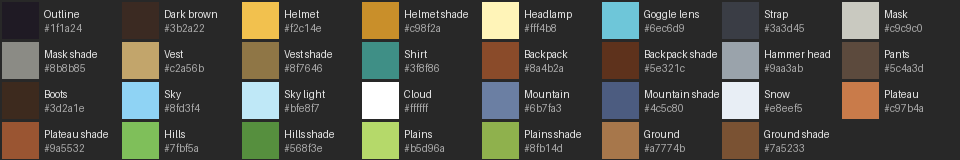
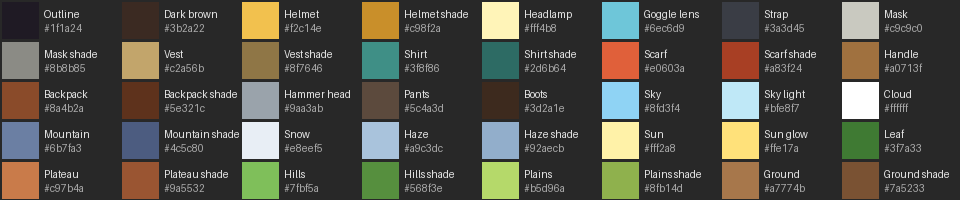
Add configurations for Game Development

diff --git a/LandGrand/Project/Start-up Screen.md b/LandGrand/Project/Start-up Screen.md
@@ -18,7 +18,7 @@ The start-up screen is the first screen the player sees. It shows the explorer w
 | Pixel tool | Aseprite, replacing Piskel from the pre-proposal's tool list. Clip Studio Paint remains available. |
 | Landforms shown | All four in the distance: Mountains, Plateaus, Hills, Plains |
 | Motion | The explorer walks in place in an endless loop while the background layers scroll. A blinking "Tap to Start" prompt waits for the player. |
-| Explorer | Genderless field geologist. A helmet, goggles and dust mask cover the face. |
+| Explorer | Genderless field geologist in the "Cave Spelunker" style. A steel miner helmet, orange visor and black respirator cover the face. |
 | Sprite size | 32×32 pixels per frame |
 
 ## Explorer design
@@ -27,41 +27,46 @@ The face is fully covered, so the character reads as neither boy nor girl. Every
 
 | Part | Description | Palette colours |
 | --- | --- | --- |
-| Head | Miner hard hat with a headlamp on the front | Helmet, Helmet shade, Headlamp |
-| Eyes | Round goggles with a dark strap | Goggle lens, Strap |
-| Face | Dust mask with a small filter on the side | Mask, Mask shade |
-| Body | Field vest with pockets over a teal shirt | Vest, Vest shade, Shirt |
-| Back | Backpack for collected rocks and minerals | Backpack, Backpack shade |
-| Hand | Rock hammer, carried head-down | Hammer head, Dark brown |
-| Legs and feet | Dark trousers and work boots | Pants, Boots |
+| Head | Dark steel miner helmet with a bright headlamp on the front | Mask shade, Strap, Headlamp |
+| Eyes | Orange visor band with a light glint | Scarf, Headlamp, Strap |
+| Face | Black close-fitting respirator, flush with the face, with a round grey side filter | Strap, Hammer head, Mask shade |
+| Body | Slim field vest over a teal shirt, with a belt | Vest, Vest shade, Shirt, Shirt shade |
+| Neck | Orange scarf whose tail waves behind while walking | Scarf, Scarf shade |
+| Back | Small backpack for collected rocks and minerals, with a pickaxe strapped across it | Backpack, Backpack shade, Handle, Hammer head |
+| Arms and legs | Thin limbs with gloves and dark trousers. Brown work boots with an ankle cuff, a lighter toe cap and a dark sole. Both arms swing opposite the legs. | Pants, Backpack, Backpack shade, Handle, Boots |
 
-The character faces right, toward the landforms. It stands about 26 pixels tall inside the 32×32 frame, with the feet on the bottom row.
+The character faces right, toward the landforms. It has a slim build with medium-length legs and stands about 27 pixels tall inside the 32×32 frame, with the feet near the bottom row. The user asked for a less bulky, cooler design after the first draft, then for shorter legs and a clearer forward walk after the second.
 
 ## Screen layout
 
 ![[landgrand-startup-layout-480x270.png]]
 
-The canvas is 480×270 pixels, which scales exactly ×4 to 1920×1080 in landscape. The reference image above is a layout guide, not final art. Open it as a reference layer in Aseprite.
+The game runs in landscape orientation only (user confirmed 2026-11-12, D-030). The canvas is 480×270 pixels, which scales exactly ×4 to 1920×1080 in landscape. The reference image above is a layout guide, not final art. Open it as a reference layer in Aseprite.
 
-| Layer | Content | Scroll speed |
+| Layer | Content | Scroll speed (pixels per frame at 10 fps) |
 | --- | --- | --- |
-| L0 | Sky and clouds | Static |
-| L1 | Mountains | 0.1× |
-| L2 | Plateau | 0.2× |
-| L3 | Hills | 0.4× |
-| L4 | Plains | 0.7× |
-| L5 | Ground, where the explorer walks | 1.0× |
-| Sprite | Explorer, feet at y = 238 | Walks in place |
-| Sprite | "LAND GRAND" title, inside the top box | Static. A shine animation can come later. |
-| UI | "Tap to Start" text | Blinks |
+| L0 | Sky gradient and sun with a soft glow | Static |
+| L1 | Clouds of mixed sizes | 0.15 |
+| L2 | Far mountain range in haze colours | 0.1 |
+| L3 | Near mountains: varied heights, lit left slopes, shaded right slopes, jagged snow caps | 0.25 |
+| L4 | Plateaus of varied width and height with uneven rock strata | 0.45 |
+| L5 | Rolling hills with scattered trees | 0.8 |
+| L6 | Plains with uneven grass tufts and small flowers | 1.4 |
+| L7 | Ground with an uneven grass edge, pebbles and coloured minerals | 2.0 (matches the explorer's stride) |
+| Sprite | Explorer, feet at y = 239 | Walks in place |
+| Sprite | "LAND GRAND" title | Bobs 1 px; a shine sweeps across every 3.2 s |
+| Sprite | Birds (flock of 5) | Fly across the sky |
+| Sprite | Sparkles | Twinkle on the coloured minerals in L7 |
+| Sprite | Dust | Puffs at the explorer's feet on each step |
+| UI | "Tap to Start" | Blinks |
 
-Layers L1 to L5 scroll, so each one must tile horizontally: its left edge must continue its right edge. Wider phones (up to 20:9) show more of each layer at the sides, which tiling also covers.
+The background canvas is 960×270, two screens wide, so features don't repeat on every screen. Peaks, plateaus, trees, tufts and minerals are placed at irregular spacing. Each layer tiles horizontally: its left edge continues its right edge. Wider phones (up to 20:9) show more of each layer at the sides, which tiling also covers.
 
 ## Palette
 
 ![[landgrand-palette.png]]
 
-The palette file is `Assets/Art/Palettes/landgrand.gpl` in the Unity project. In Aseprite, load it with **Palette > Load Palette**. It holds 31 colours: the explorer, sky, each landform, and the ground.
+The palette file is `Assets/Art/Palettes/landgrand.gpl` in the Unity project. In Aseprite, load it with **Palette > Load Palette**. It holds 40 colours: the explorer, sky, each landform, and the ground.
 
 ## Files and Aseprite setup
 
@@ -70,14 +75,46 @@ Save working files in `Assets/Art/StartScreen/` in the Unity project. Unity impo
 | File | Canvas | Content |
 | --- | --- | --- |
 | `explorer.aseprite` | 32×32 | Tag `walk`: 8 frames at 100 ms each (10 frames per second) |
-| `startup-background.aseprite` | 480×270 | One Aseprite layer per scroll layer, L0 to L5 |
+| `startup-background.aseprite` | 960×270 | One Aseprite layer per scroll layer, L0 to L7 |
 | `title.aseprite` | About 300×70 | The "LAND GRAND" lettering |
 
 The `walk` tag uses a standard 8-frame cycle: contact, down, passing, up, then the same four poses on the other leg.
 
 Import settings in Unity: Pixels Per Unit 32, Filter Mode Point, Compression None. Use a Pixel Perfect Camera with reference resolution 480×270 and 32 pixels per unit.
 
+## Asset status
+
+| Asset | Status |
+| --- | --- |
+| `explorer.aseprite` | Sixth draft plus a `collect` tag (8 frames: stop, bend, crouch, grab, rise, hold up, stash, stand). Cave Spelunker head (chosen by the user from three variants; see [[explorer_head_variants.png]]), 2026-11-12, replacing the earlier bulky and long-legged drafts. Generated by Claude from this spec: 8 frames at 100 ms, tag `walk`, LandGrand palette. Not yet reviewed in Aseprite or Unity. |
+| `startup-background.aseprite` | Second draft, 2026-11-12. Eight layers (L0–L7) at 960×270 with irregular, non-repeating features. The user asked for effects, less repetition and interactivity after the first draft. |
+| `title.aseprite` | Second draft, 2026-11-12. 291×44. Tag `idle` (1 frame) and tag `shine` (12 frames at 60 ms). |
+| `birds.aseprite`, `sparkle.aseprite`, `dust.aseprite` | First drafts, 2026-11-12. Tags `fly` (4 frames), `twinkle` (4 frames), `puff` (3 frames). |
+| `minerals.aseprite` | First draft, 2026-11-12. 4 frames, 12×12: quartz, gold, jasper, grey rock. |
+| `startup-background-points.json` | Peak, plateau, hill and mineral positions in the background, for interactive tap targets. |
+| `tap-to-start.aseprite` | First draft, 2026-11-12. "TAP TO START" in white pixel letters, 138×19. Stands in until a pixel font is chosen. |
+
+![[explorer_walk_preview.gif]]
+
+The full screen with parallax scrolling, the walking explorer and the blinking prompt:
+
+![[startup_preview.gif]]
+
+The flat sprite sheet is [[explorer_walk_sheet.png]] (256×32, eight 32×32 frames). The second draft adds the scarf, the back-mounted pickaxe and the far-arm swing.
+
+## Interactivity (D-031)
+
+Rocks and minerals appear on the path ahead of the explorer and scroll with the ground. When the explorer reaches one, it stops and the world stops scrolling (the clouds keep drifting). The explorer crouches, grabs the mineral from the ground (chime), holds it up (sparkle), puts it in the backpack, and walks on; the world eases back to speed over 0.3 seconds. This uses the `collect` tag in `explorer.aseprite` (frames 9–16), added at the user's request so the explorer collects minerals from the ground.
+
+![[explorer_collect_preview.gif]] Four kinds exist (quartz crystal, gold nugget, red jasper, grey rock) in `minerals.aseprite`, with three chime sounds in `Assets/Audio/`. A new mineral appears every 2.5 to 5 seconds. The minerals painted into the ground also twinkle now and then.
+
+Tapping anywhere opens the Main Menu scene. That scene does not exist yet, so a tap only logs a message for now.
+
+## Unity scene
+
+Run **LandGrand > Build Start Screen Scene** in the Unity menu. It sets pixel-art import settings (32 pixels per unit, Point, uncompressed) on every PNG in `Assets/Art/StartScreen/Sprites/`, sets landscape-only orientation, builds `Assets/Scenes/StartScreen.unity`, and adds it first in the build list. Running it again rebuilds the scene. Scripts are in `Assets/Scripts/StartScreen/` and the builder is `Assets/Editor/StartScreenBuilder.cs`. The game uses PNG frames exported from the `.aseprite` files, one PNG per frame or layer, because the scene built from the `.aseprite` imports showed no sprites on 2026-11-12. The `.aseprite` files stay as the editable sources. As of 2026-11-12 the scripts compiled against stand-in Unity types only; they have not yet been compiled or run in the Unity Editor.
+
 ## Still open
 
-- The "Tap to Start" text needs a pixel font. No font has been chosen yet.
-- Music and sound for this screen ([[Project/Scope and Requirements|LG-18]]) are not specified.
+- The "Tap to Start" prompt is a sprite for now. A pixel font for UI text has not been chosen.
+- Music: an original "Quest" loop composed by Claude for this project, `Assets/Audio/bgm_startscreen.ogg` (29.1 s, 132 BPM, A minor, chords Am–F–C–G, building to E major; brass-like lead, driving arpeggio, tom fills). Ambience: wind gusts with a soft whistle, a flowing river, birds and a distant eagle cry, `amb_wind_birds.ogg` (32 s). Volumes are 55% for music and 35% for ambience; both fade in over 1.5 s and fade out over 0.6 s on tap. On 2026-11-13 the user chose this version over the first (sad), cheerful and adventure drafts. No third-party licence applies.

diff --git a/LandGrand/Sessions/2026-11-13 - Start-up Screen Build Handoff.md b/LandGrand/Sessions/2026-11-13 - Start-up Screen Build Handoff.md
@@ -1,0 +1,57 @@
+---
+type: session-handoff
+status: active
+updated: 2026-11-13
+focus: Game development, start-up screen
+---
+
+# Start-up Screen Build Handoff
+
+## Stopping point
+
+On 2026-11-13 the user asked to save what was accomplished. The start-up screen runs in the Unity Editor: the user confirmed that the scene works, that the explorer and minerals appear, and that the "Quest" music is the chosen background. Game development is the active priority under [[Decisions/Decision Register|D-027]]. The user will upload the final Chapters I–III later.
+
+## Accomplishments saved
+
+### Project setup
+
+- Working copies confirmed: `D:\LandGrand\LandGrand` (Unity) and `D:\LandGrand\LandGrand-Sources` (this vault). The `D:\Projects` copies are outdated (D-027). Live path references in the vault were updated.
+- Unity upgraded from `6000.5.6f1` to `6000.6.8f1` and committed by the user. The Cainos `PolygonCollider2D` serialization warnings and a duplicate `using` in `Elevator.cs` were fixed. A merge-conflict marker left in `Assets/Editor/ReserializeCainos.cs` after the two-laptop merge was removed.
+- Landscape-only orientation recorded (D-030); the scene builder sets it in Player Settings.
+
+### Start-up screen design decisions
+
+| Decision | Record |
+| --- | --- |
+| All pixel art in Aseprite (replacing Piskel), four landforms in the distance, endless walk with "Tap to Start", genderless masked field geologist at 32×32 | D-028 |
+| "Cave Spelunker" explorer head (steel helmet, headlamp, orange visor, black respirator) | D-029 |
+| Landscape only | D-030 |
+| Rocks and minerals along the path; touching one plays a sound | D-031 |
+
+The user also asked, in turn, for a slimmer cooler body, shorter legs and a forward-reading walk, visible boots, a mask without the "duck" snout, effects with less repetition, a ground pickup animation, closer minerals, a fixed footstep dust, and cheerful then adventurous then more intense music. Each request is reflected in [[Project/Start-up Screen]].
+
+### Built assets (Unity project)
+
+- **Art**: `Assets/Art/StartScreen/*.aseprite` are the editable sources. The game uses 53 PNG frames exported from them in `Assets/Art/StartScreen/Sprites/` (Background L0–L7 at 960×270, Explorer 16 frames = walk + collect, Title 13 frames with a shine, Birds, Sparkle, Dust, Minerals, UI). The palette is `Assets/Art/Palettes/landgrand.gpl` (40 colours).
+- **Audio**: `Assets/Audio/bgm_startscreen.ogg` ("Quest", 29.1 s, 132 BPM, A minor), `amb_wind_birds.ogg` (wind gusts, river, birds, eagle; 32 s), three mineral chimes. All are original, generated for the project; no third-party licence applies.
+- **Scripts** in `Assets/Scripts/StartScreen/`: parallax scrolling with a shared walk-speed scale, a sprite flipbook, the explorer collect controller, mineral spawner and pickup, footstep dust that drifts with the ground, birds, ground sparkles, the blinking prompt, the title bob, music with fades, and the tap-to-continue controller.
+- **Scene builder**: `Assets/Editor/StartScreenBuilder.cs`, menu **LandGrand > Build Start Screen Scene**, creates `Assets/Scenes/StartScreen.unity` and adds it first in the build list. A rebuild replaces the scene, so it is needed only when the builder or the art changes, not for script-only changes.
+
+### Lessons
+
+- The `.aseprite` files written by Claude did not yield sprites through the Unity Aseprite importer on this project; the cause is unconfirmed. PNG frames with the standard texture importer work and are the current route.
+- Preview GIFs with a separate palette per frame displayed with wrong colours in Claude's viewer. Previews now use one shared palette. The game art itself was never affected.
+- Building with **Build And Run** needs a phone connected with USB debugging. **Build** alone makes an APK on the laptop.
+
+## Not done yet
+
+- The **Main Menu** scene does not exist. A tap on the start screen only logs a message until it does.
+- No Android device test has been recorded yet.
+- `/setup-matt-pocock-skills` has not been run for the Unity project.
+- Game-rule questions Q-02, Q-03, Q-06 and Q-07 remain open in [[Questions/Open Questions]].
+- A pixel font for UI text has not been chosen; "Tap to Start" is a sprite.
+- The final Chapters I–III are still to be uploaded.
+
+## Suggested next step
+
+Build the Main Menu from [[Project/Scope and Requirements|LG-16]] (Play, Settings, Tutorial, Exit), so the start screen has somewhere to go. Settings and Tutorial contents are unspecified in the requirements and need the user's decisions first.

diff --git a/LandGrand/Maintenance/Change Log.md b/LandGrand/Maintenance/Change Log.md
@@ -310,3 +310,17 @@ These checks cover saved files and references. The live Obsidian interface was n
 - The user confirmed `D:\LandGrand\LandGrand` (Unity) and `D:\LandGrand\LandGrand-Sources` (vault) as the working copies; the `D:\Projects` copies are outdated. Updated the live path references in both AGENTS.md files, Home, Technical Baseline, Vault Guide, and the Chapter III Drafting Guide. Historical entries, sessions, and sources keep their original paths.
 - Recorded the Unity editor as `6000.6.8f1` in Current Focus. The upgrade from `6000.5.6f1` and the Cainos asset reserialize were done in the Editor by the user; the upgrade commit is not yet verified in git.
 - Recorded D-028 for the start-up screen art. Added [[Project/Start-up Screen]] with the explorer design, layer layout and Aseprite setup, plus a layout guide and palette swatch in `Sources/Attachments`. Added `Assets/Art/Palettes/landgrand.gpl` and the empty `Assets/Art/StartScreen/` folder to the Unity project. Technical Baseline now notes Aseprite replacing Piskel.
+- Added a first-draft explorer sprite, `Assets/Art/StartScreen/explorer.aseprite` (8-frame `walk` tag), plus a sprite sheet and preview GIF in `Sources/Attachments`. Recorded its status in [[Project/Start-up Screen]].
+- Replaced the explorer sprite with a slimmer second draft (scarf, back-mounted pickaxe, both arms swinging) at the user's request. Added Shirt shade, Scarf, Scarf shade and Handle to the palette (35 colours).
+- Third explorer draft: shorter legs (hip 1–2 px lower), a reworked walk cycle with clearer forward knee bends and higher foot lift, and a smaller arm swing. The preview GIF now scrolls the ground so the walk reads as forward.
+- Fourth explorer draft: replaced the dark block feet with shaped brown boots (ankle cuff, toe cap, sole) so the shoes read clearly.
+- Fifth explorer draft: replaced the protruding mask, which read as a mouth or duck bill, with a flush respirator (round side filter, dark front vent).
+- Recorded D-029 and applied the Cave Spelunker head to `explorer.aseprite` (sixth draft). Saved the four-way comparison as `explorer_head_variants.png`.
+- Added first drafts of `startup-background.aseprite` (six tiling layers), `title.aseprite` and `tap-to-start.aseprite` in `Assets/Art/StartScreen/`, plus `startup_preview.gif` and `startup_still.png`. Recorded D-030 (landscape only) in the Start-up Screen and Technical Baseline notes.
+- Second start-up screen draft: 8-layer 960×270 background with irregular features (sun, clouds, far haze range, varied mountains, plateaus, trees, flowers, minerals); title shine animation; bird, sparkle and dust effect sprites; mineral and landform positions in `startup-background-points.json`. Palette now 40 colours (Haze, Haze shade, Sun, Sun glow, Leaf).
+- Recorded D-031 (minerals on the path with a sound on touch). Added `minerals.aseprite`, three chime WAVs, 13 start-screen scripts and the `LandGrand > Build Start Screen Scene` editor builder to the Unity project. Not yet compiled in Unity.
+- Added an 8-frame `collect` animation to the explorer and `ExplorerCollector.cs`: the explorer stops, crouches and picks each mineral off the ground, and the world pauses meanwhile. Updated the spawner, pickup, parallax and flipbook scripts and the scene builder. Not yet compiled in Unity.
+- Fixed a merge-conflict marker in `ReserializeCainos.cs`. Switched the start-screen builder from `.aseprite` sub-assets to 53 exported PNG frames in `Assets/Art/StartScreen/Sprites/` after the first build showed no sprites. Re-saved the preview GIFs with one shared palette so they display correctly.
+- Added start-screen background music and ambience (original, generated), `StartScreenMusic.cs`, a fade-out before the scene change in `StartScreenController.cs`, and a Music object in the scene builder. Mineral spawns are now closer (first one 3 units ahead, then every 1.5–3 s).
+- 2026-11-13: replaced the start-screen music with the user-chosen "Quest" track and the ambience with wind, river and birds; set the volumes to 55% and 35%. Fixed the dust placement and made it scroll with the ground.
+- 2026-11-13: saved [[Sessions/2026-11-13 - Start-up Screen Build Handoff]] at the user's request and linked it from Current Focus and Home.

diff --git a/LandGrand/Decisions/Decision Register.md b/LandGrand/Decisions/Decision Register.md
@@ -38,6 +38,9 @@ updated: 2026-11-12
 | D-026 | 2026-11-01 | Save the delivered Chapter III Word/reference snapshots, completed checks, and the user's unresolved feedback. Mark Chapter III Needs revision and prioritize the procedure diagram next session. End new manuscript/diagram work for today; preserve current versions and unresolved game rules. | [[Sessions/2026-11-01 - Chapter III Draft and Procedure Diagram Handoff#Latest user feedback and stopping point|User session-close request]] says many bottlenecks remain, especially the procedure diagram, and asks to fix them later and save progress. | [[Current Focus]], [[Manuscript/Drafting Dashboard|Dashboard]], [[Manuscript/Chapter III Revision Notes|revision notes]], [[Manuscript/Chapter III Drafting Guide|guide]], [[Sessions/2026-11-01 - Chapter III Draft and Procedure Diagram Handoff|handoff]] |
 | D-027 | 2026-11-12 | Change the active priority from drafting Chapters I–III (D-006) to game development, starting with the start-up screen assets: an animated explorer character walking toward a landform, with the Land Grand title. The user will upload the final Chapters I–III later; manuscript work resumes then. The working copies are `D:\LandGrand\LandGrand` (Unity) and `D:\LandGrand\LandGrand-Sources` (vault); the `D:\Projects` copies are outdated. This change does not settle the open game-rule questions (Q-02, Q-03, Q-06, Q-07) or the graphics-tool choice. | User in chat, 2026-11-12: "can we start on creating Game now? first is the Start up Game Asset screen for the LandGrand" and "the real one is the LandGrand - LandGrand, not the Projects one". | [[Current Focus]], [[Project/Technical Baseline|Technical Baseline]] |
 | D-028 | 2026-11-12 | Start-up screen art: all pixel art matching the Cainos props (32 px per unit, Point filtering), made in Aseprite instead of Piskel. Show all four landforms in the distance. The explorer walks in place in an endless loop while the background scrolls, with a blinking "Tap to Start" prompt. The explorer is a genderless field geologist whose face is covered by a miner helmet, goggles and dust mask, drawn at 32×32 pixels per frame. | User answers in chat, 2026-11-12: art style "All pixel art"; landform "All four in distance"; motion "with Start or Proceed text like tap to Enter"; explorer "genderless, like it will have a mask for exploring the Mountains and Rocks, like a Miner style"; outfit "Field geologist"; size "32×32 px"; tool "I have already aseprite". | [[Project/Start-up Screen|Start-up Screen]], [[Project/Technical Baseline|Technical Baseline]] |
+| D-029 | 2026-11-12 | Use the "Cave Spelunker" head for the explorer: dark steel miner helmet with headlamp, orange visor, black respirator with a side filter. It replaces the yellow hard hat, cyan goggles and grey mask; the body, boots and walk cycle stay. | User chose "1 Cave Spelunker (Recommended)" from four options (current, Cave Spelunker, Desert Ranger, Visor Scout) after asking for a cooler version. | [[Project/Start-up Screen|Start-up Screen]] |
+| D-030 | 2026-11-12 | The mobile game runs in landscape orientation only (landscape left and right; no portrait). | User in chat, 2026-11-12: "the mobile app would be in Landscape mode". The Unity project's Player Settings still allowed portrait when checked. | [[Project/Start-up Screen|Start-up Screen]], [[Project/Technical Baseline|Technical Baseline]] |
+| D-031 | 2026-11-12 | On the start-up screen, rocks and minerals appear along the explorer's path; touching one plays a sound effect (with a sparkle and pop). Tapping anywhere goes to the Main Menu. | User answer in chat, 2026-11-12: "I want you to add a Rock or Minerals along the way, if it touches it will have a sound effect". | [[Project/Start-up Screen|Start-up Screen]] |
 
 The imported proposal is an initial documentary baseline. D-001 does not approve its game rules, research design, or Android range. D-012 resolves the Android-range part of Q-01; device validation and Q-02 through Q-08 remain separate follow-ups in [[Questions/Open Questions|Open Questions]].
 

diff --git a/LandGrand/Home.md b/LandGrand/Home.md
@@ -10,7 +10,7 @@ This vault is the source of truth for the LandGrand capstone's documented purpos
 
 [[Current Focus]] records the user's active priority and the recommendations retained for later sessions. Read it before choosing the next project task.
 
-For the next session, read [[Sessions/2026-11-01 - Chapter III Draft and Procedure Diagram Handoff|the Chapter III handoff]]. [[Manuscript/Drafts/Land Grand - Chapter III - Revised - v1.docx|The delivered Word draft]] and [[Manuscript/Drafts/Land Grand - Chapter III - References - v1.docx|references]] are preserved in the vault. **Further revision is needed, with the procedure diagram first**, following the user's latest feedback. [[Manuscript/Chapter III Revision Notes|Revision Notes]] and [[Manuscript/Chapter III Drafting Guide|the guide]] support the next pass. [[Sources/Chapter III Unrevised Draft 2026-11-01|The original source and adviser comments]] remain preserved. [[Sessions/2026-10-30 - Chapter I Progress and Chapter II Handoff|The October 30 handoff]] records the earlier Chapter I–II snapshot.
+For the next game session, read [[Sessions/2026-11-13 - Start-up Screen Build Handoff|the start-up screen handoff]]. For manuscript work, read [[Sessions/2026-11-01 - Chapter III Draft and Procedure Diagram Handoff|the Chapter III handoff]]. [[Manuscript/Drafts/Land Grand - Chapter III - Revised - v1.docx|The delivered Word draft]] and [[Manuscript/Drafts/Land Grand - Chapter III - References - v1.docx|references]] are preserved in the vault. **Further revision is needed, with the procedure diagram first**, following the user's latest feedback. [[Manuscript/Chapter III Revision Notes|Revision Notes]] and [[Manuscript/Chapter III Drafting Guide|the guide]] support the next pass. [[Sources/Chapter III Unrevised Draft 2026-11-01|The original source and adviser comments]] remain preserved. [[Sessions/2026-10-30 - Chapter I Progress and Chapter II Handoff|The October 30 handoff]] records the earlier Chapter I–II snapshot.
 
 > [!info] Current baseline
 > The supplied **Pre-Proposal Statement** is the initial proposal baseline. Its filename contains “Final,” but approval and implementation have not been established. Confirmed changes belong in the decision register and the relevant canonical note.

diff --git a/LandGrand/Current Focus.md b/LandGrand/Current Focus.md
@@ -1,7 +1,7 @@
 ---
 type: focus
 status: active
-updated: 2026-11-12
+updated: 2026-11-13
 ---
 
 # Current Focus
@@ -12,7 +12,7 @@ Work in `D:\LandGrand\LandGrand` (Unity, editor `6000.6.8f1`) and this vault at 
 
 ## Latest session handoff
 
-Read [[Sessions/2026-11-01 - Chapter III Draft and Procedure Diagram Handoff|the November 1 Chapter III handoff]] when resuming. **Chapter III needs further revision; fix the procedure diagram first next session.** The user reported many remaining bottlenecks, especially the diagram, and asked to stop for today and save progress under D-026. The specific remaining defects have not all been described; the current diagram is not accepted as final.
+For game work, read [[Sessions/2026-11-13 - Start-up Screen Build Handoff|the November 13 start-up screen handoff]] first. For manuscript work, read [[Sessions/2026-11-01 - Chapter III Draft and Procedure Diagram Handoff|the November 1 Chapter III handoff]]. **Chapter III needs further revision; fix the procedure diagram first next session.** The user reported many remaining bottlenecks, especially the diagram, and asked to stop for today and save progress under D-026. The specific remaining defects have not all been described; the current diagram is not accepted as final.
 
 The latest delivered review input is [[Manuscript/Drafts/Land Grand - Chapter III - Revised - v1.docx|Word revision 1]] with its [[Manuscript/Drafts/Land Grand - Chapter III - References - v1.docx|reference list]]. All 11 pages were inspected, with 15 introductions and four matching references; these checks do not close the user's concerns. [[Manuscript/Chapter III Revision Notes|Revision Notes]] separates completed checks from outstanding decisions. Follow [[Manuscript/Chapter III Drafting Guide|the saved rules]] and preserve v1 before creating a later revision. [[Sources/Chapter III Unrevised Draft 2026-11-01|The source Word and image]] remain unchanged.
 

diff --git a/LandGrand/Project/Technical Baseline.md b/LandGrand/Project/Technical Baseline.md
@@ -30,6 +30,10 @@ Evidence: [[Sources/Pre-proposal Extract#Software Specification|Software Specifi
 
 [[Project/Scope and Requirements#Device requirements|LG-25]] records the user-confirmed **Android 10 and above** target under D-012. Device/build validation remains separate from that requirement; the version-range decision no longer blocks manuscript wording.
 
+## Screen orientation
+
+Landscape only, under [[Decisions/Decision Register#Confirmed decisions|D-030]]. On 2026-11-12 the Unity Player Settings used Auto Rotation with portrait still allowed; the user is to turn portrait off.
+
 ## Save data
 
 [[Project/Scope and Requirements#Presentation and persistence|LG-19]] identifies the proposed saved fields. Save format, save timing, reset behavior, interrupted-write recovery, profile count, and replay merge rules are not specified. The player's name is local game data; it does not imply an online account.
